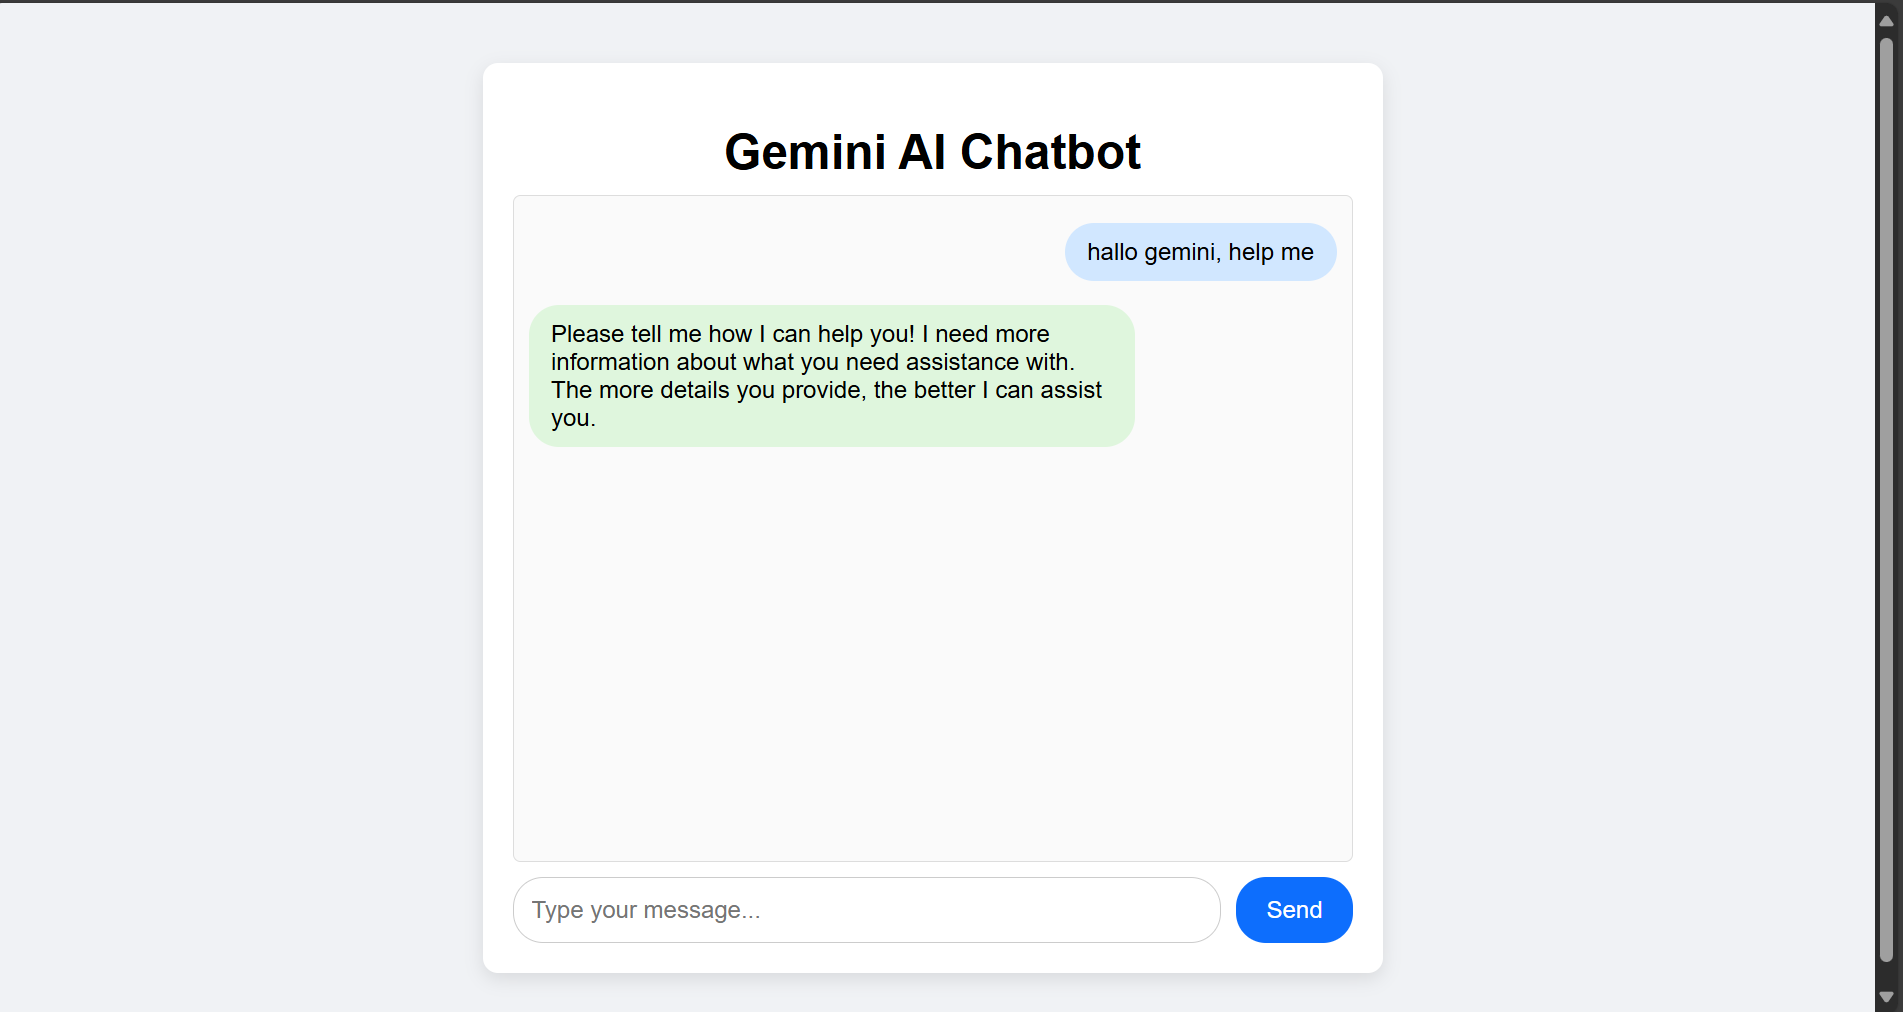
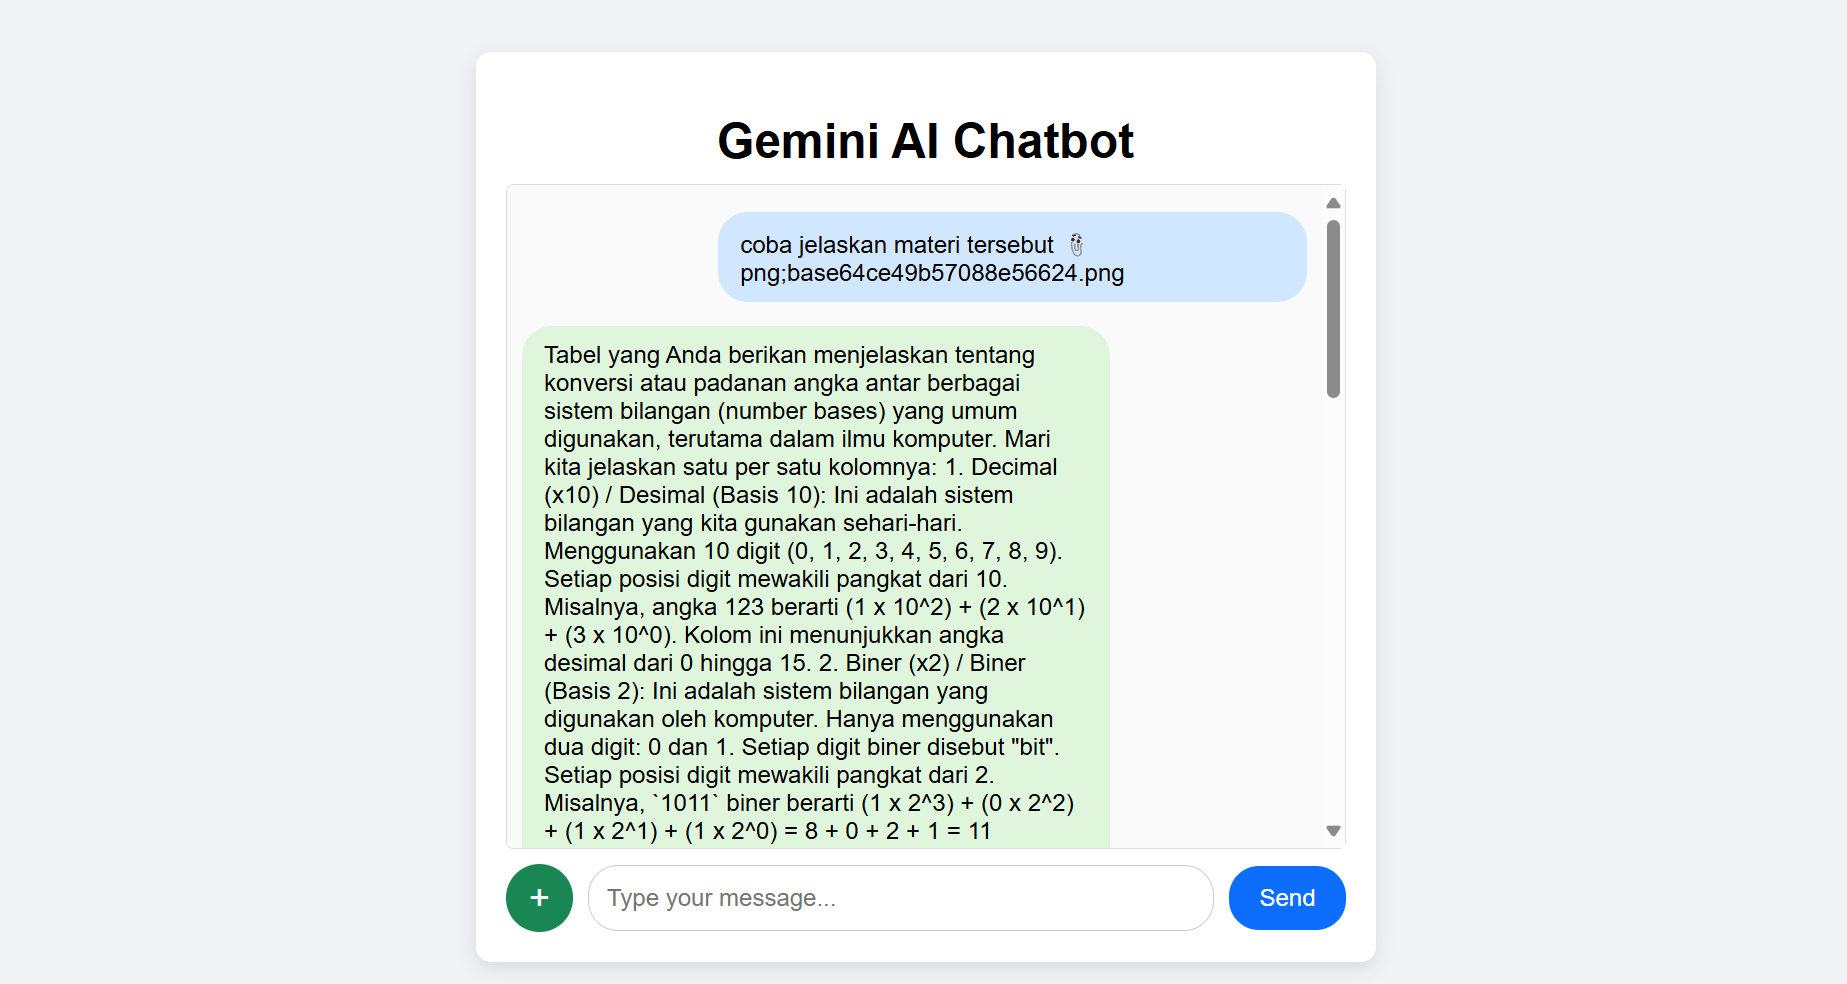
update

diff --git a/public/script.js b/public/script.js
@@ -50,7 +50,10 @@ form.addEventListener('submit', async (e) => {
 
     // Ambil respon dari server dan tampilkan ke chat
     const data = await res.json();
-    loadingMsg.textContent = (data.output || data.text || 'Saya Tidak Mengerti.').replace(/\*/g, '');
+    loadingMsg.textContent = (data.output || data.text || 'Saya Tidak Mengerti.')
+      .replace(/#+\s?/g, '')   // Hapus heading markdown: ###, ##, #
+      .replace(/\*\*/g, '')    // Hapus bold markdown: **bold**
+      .replace(/\*/g, '');     // Hapus italic: *italic*
 
   } catch (err) {
     // Jika gagal, tampilkan pesan error

diff --git a/README.md b/README.md
@@ -3,7 +3,7 @@
 **Gemini Chatbot** adalah aplikasi web sederhana berbasis Node.js + Express yang terintegrasi dengan API Gemini (Generative AI) dari Google. Aplikasi ini menerima input dari pengguna, mengirimkannya ke model AI, lalu menampilkan respons dalam bentuk web sederhana.
 
 
-![Preview](Assets/implementasi.png)
+![Preview](Assets/Implementasi.png)
 
 ## 🚀 Teknologi yang Digunakan
 
